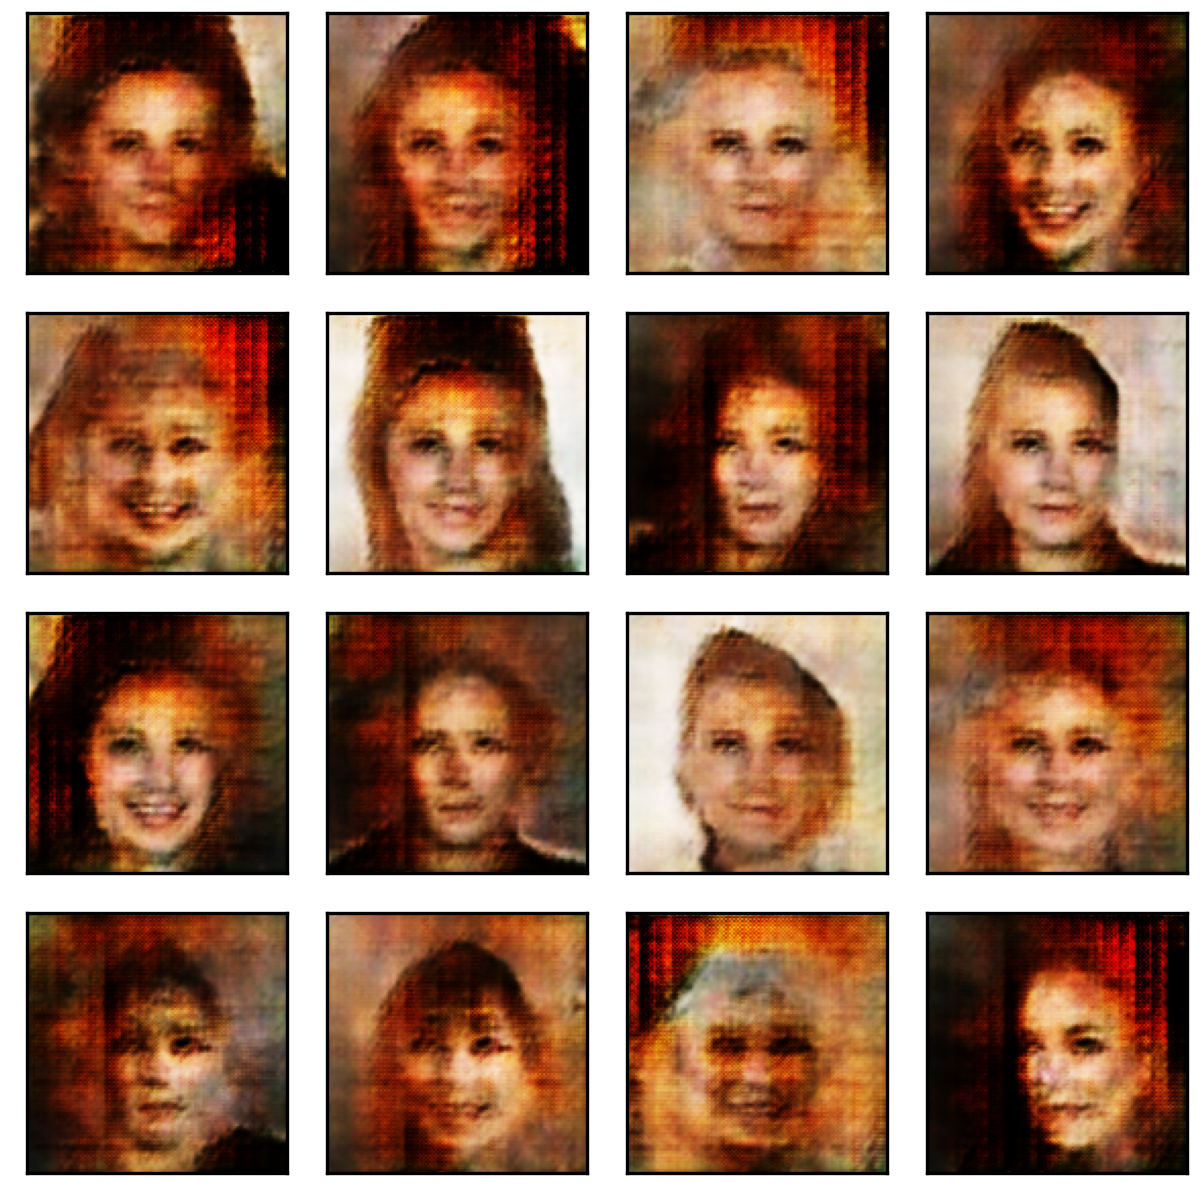
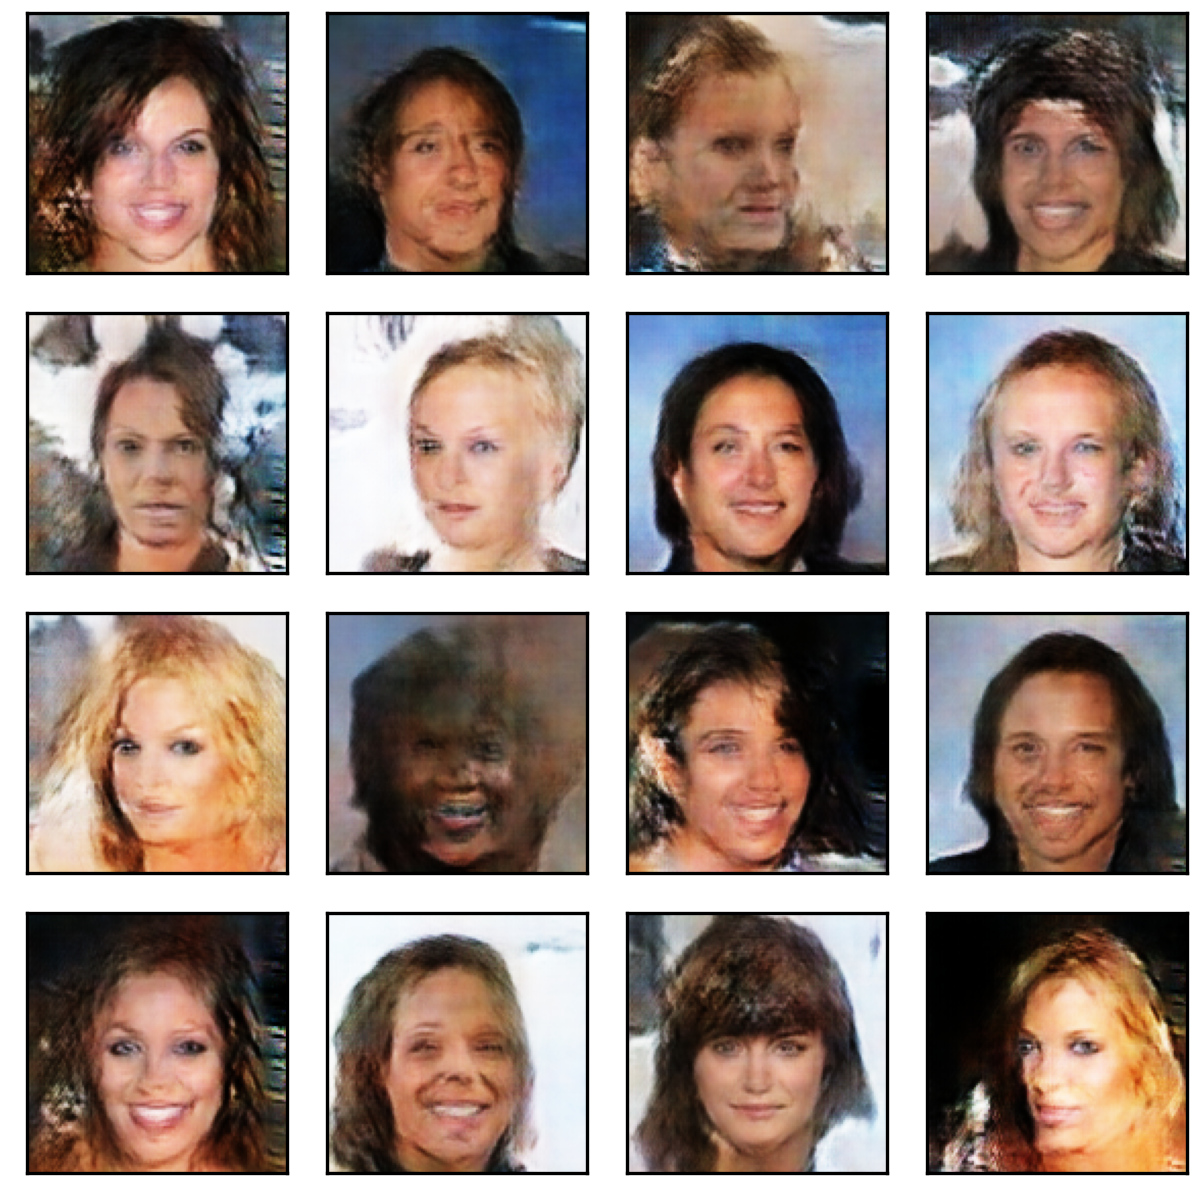
Made a stable network

diff --git a/main.py b/main.py
@@ -233,19 +233,20 @@ CHANNELS = 3
 FILTERS = {4: 512, 8: 512, 16: 256, 32: 128, 64: 64, 128: 32}
 LAMBDA_GP = 10
 BETA_1 = 0
+LEARNING_RATE = 0.0001
+
+DOUBLE_BLOCK = False
+Z_SIZE = FILTERS[4]
 
 """ TRAINING """
 
 DATASET = dataset_info.celeba
-model_version = 81
+model_version = 23
 
 """ PARAMETERS START """
 
-Z_SIZE = 512
-KERNEL_SIZE_RGB = 1
-DOUBLE_BLOCK = True
-KERNEL_SIZE = 3
-LEARNING_RATE = 0.0001
+KERNEL_SIZE = 5
+KERNEL_SIZE_RGB = 3
 
 """ PARAMETERS END """
 
